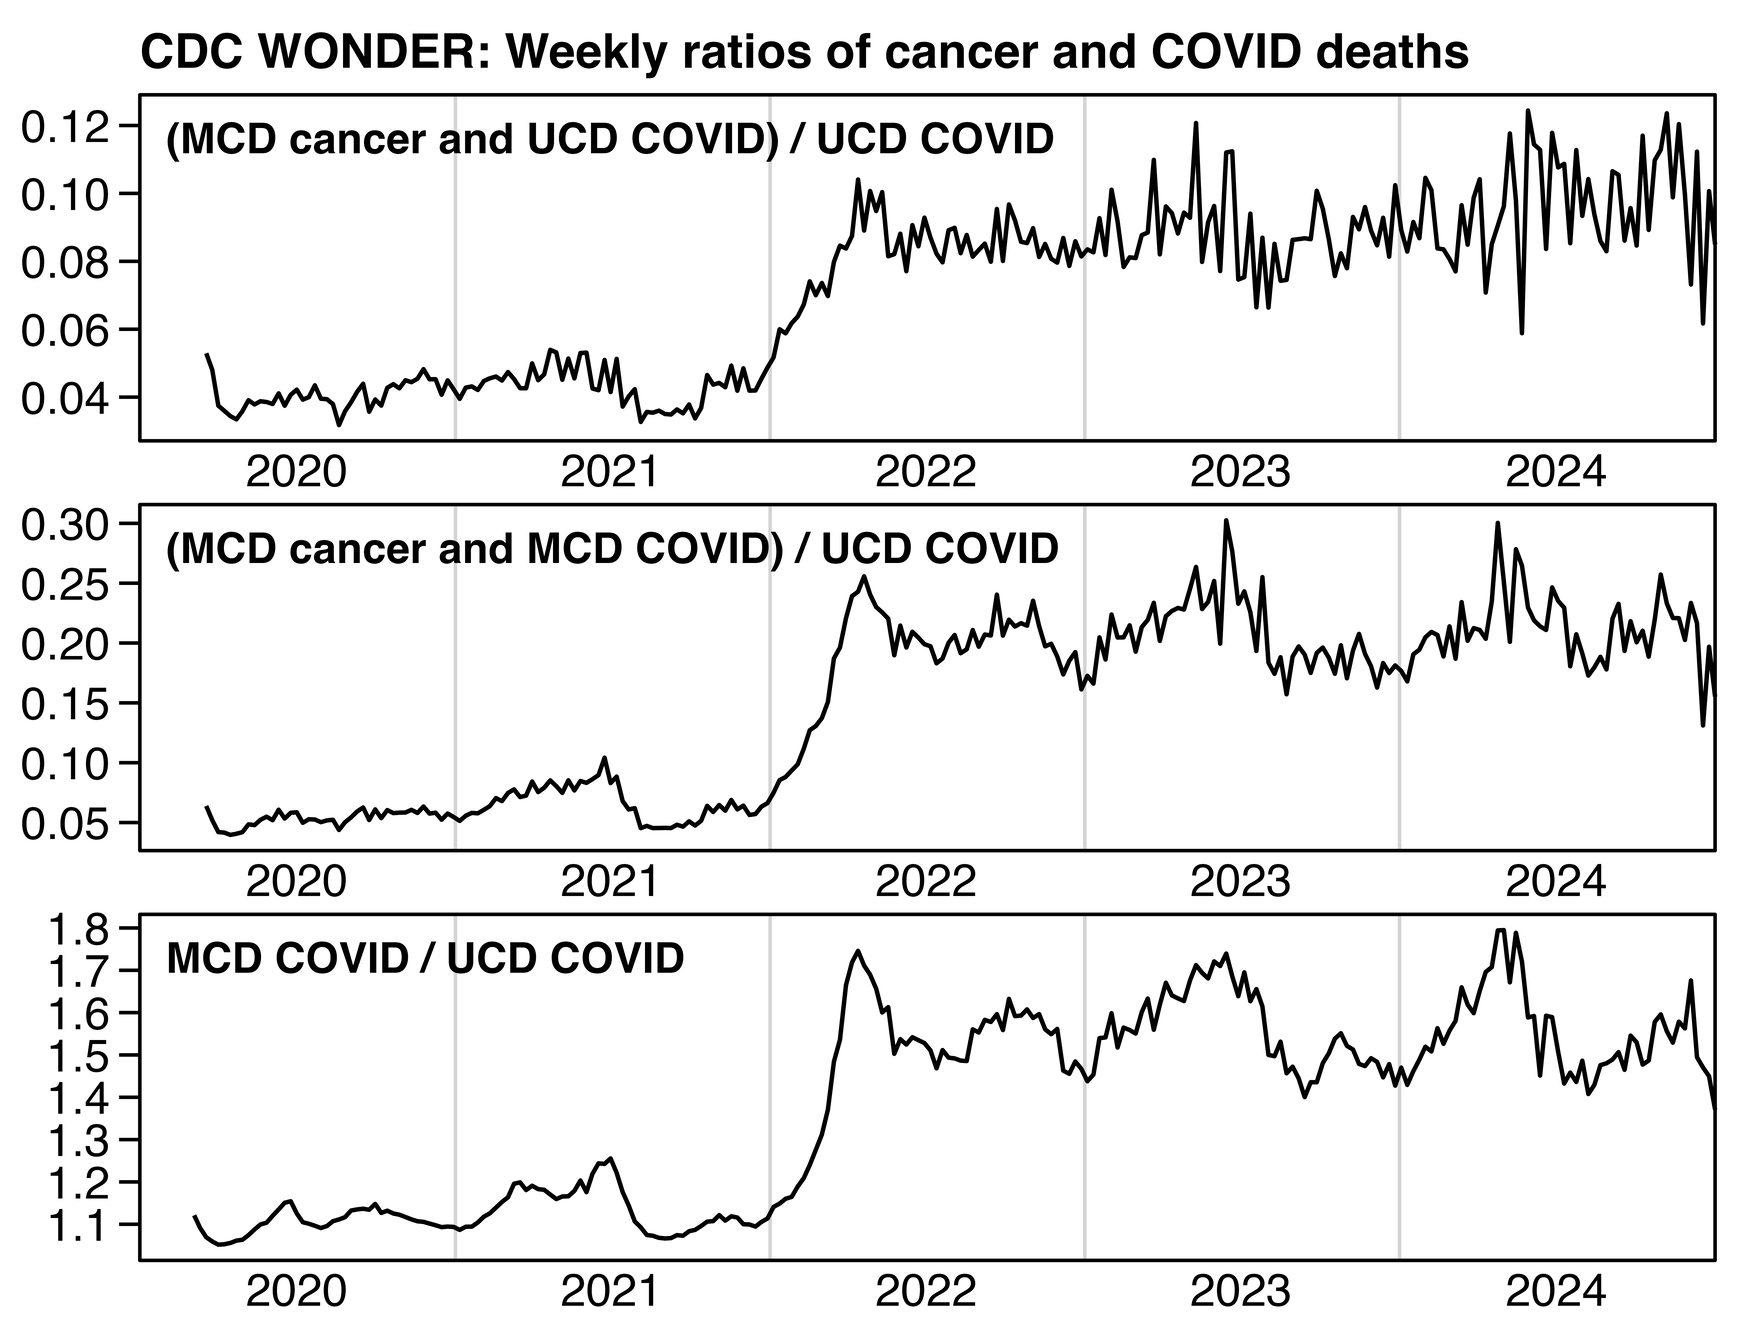
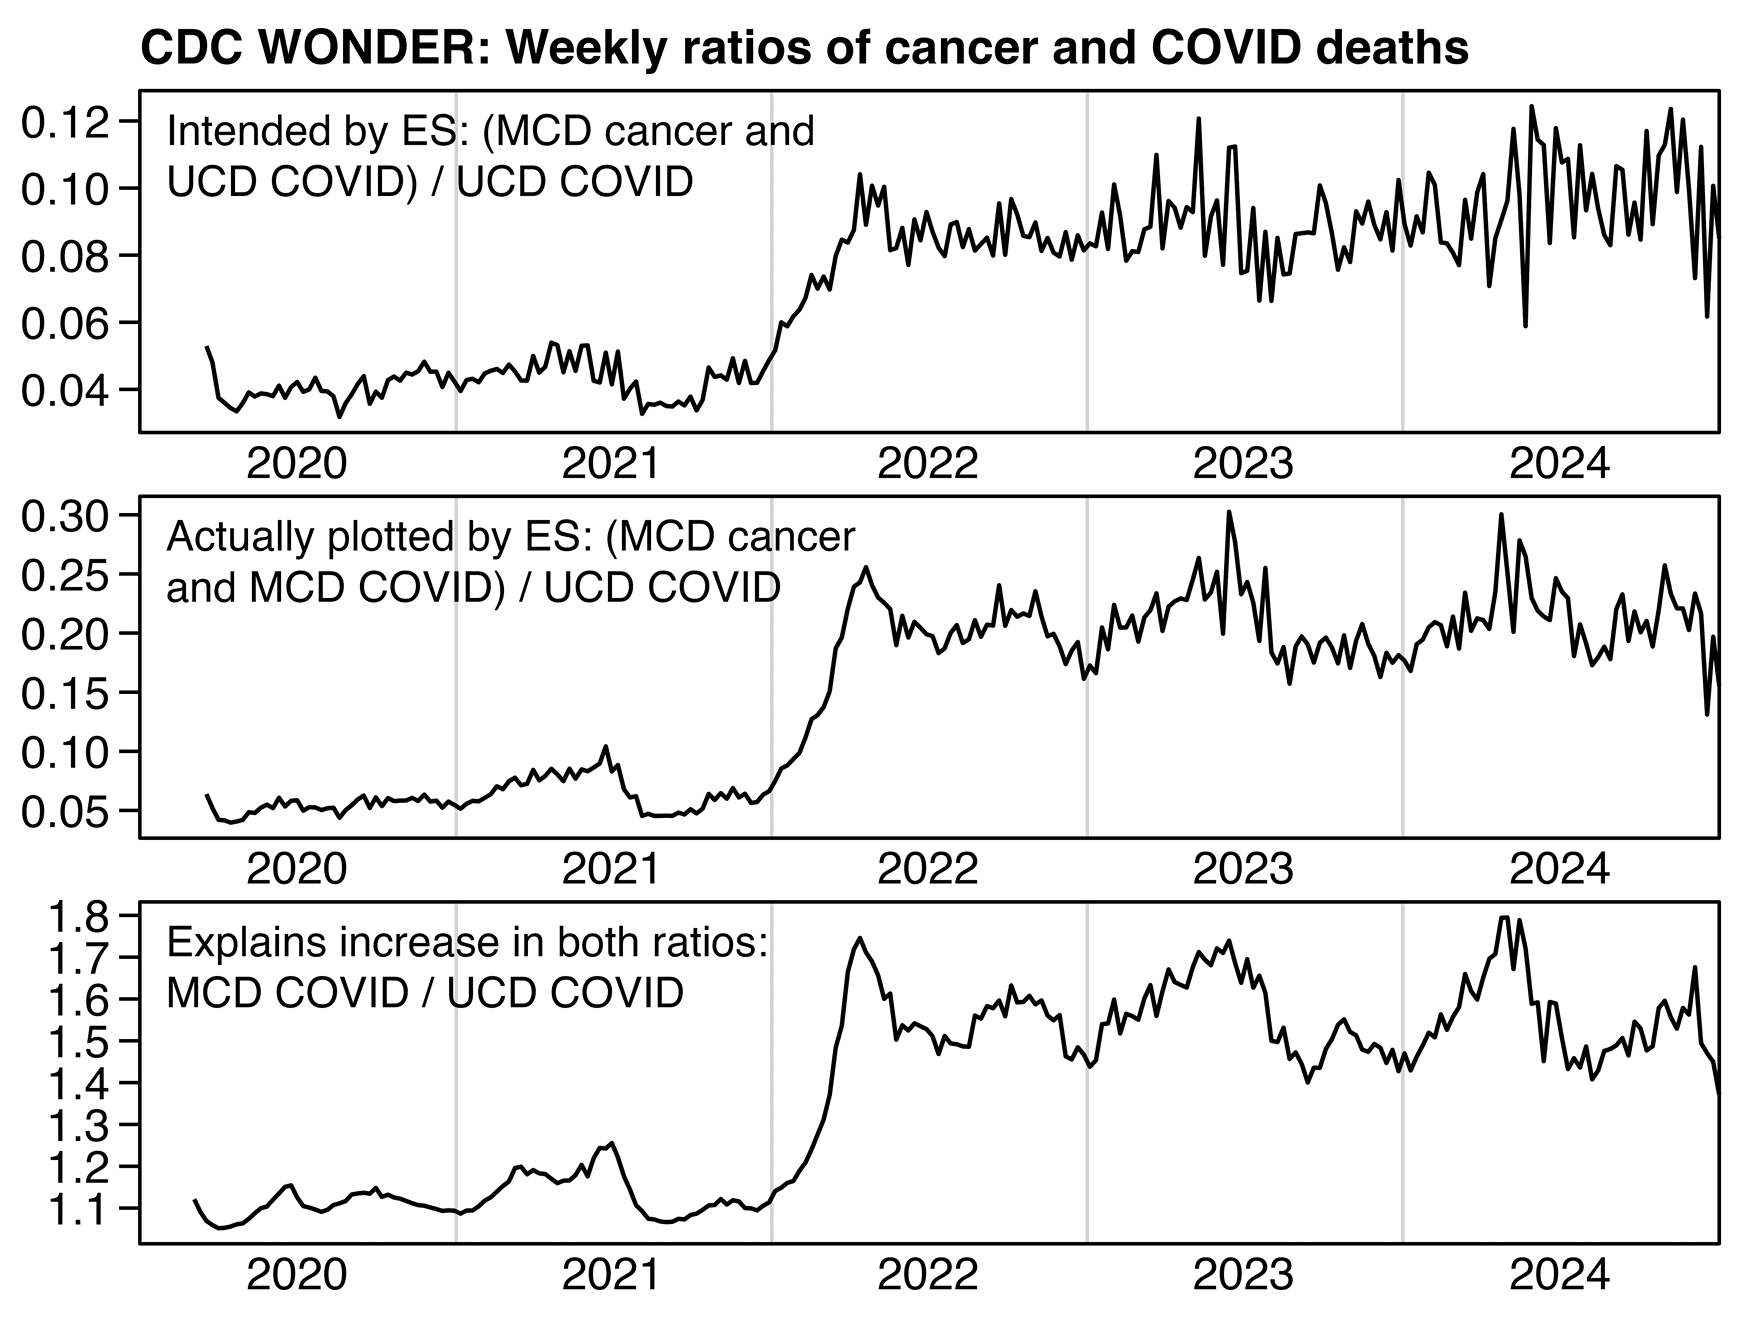
a

diff --git a/ethical.html b/ethical.html
@@ -2333,7 +2333,7 @@ ggsave(&quot;1.png&quot;,width=5.5,height=2.2,dpi=400)</pre>
 <p>I was able to reproduce his chart, but as it happens, he made a mistake when calculating the percentage. Instead of dividing by MCD Cancer and Covid *UCD* (as it says in his chart) he divided by MCD Cancer and Covid *MCD*</p>
 <p><img src=i/ethical-yukata-2.jpg class=width8></p>
 </blockquote>
-<p>I don't even remember seeing the plot by ES above, so maybe he realized himself the plot was wrong so he stopped posting it. But he still kept doing the excess MCD adjustment regardless, even though he appears to have originally justified it based on the error he made in his plot.</p>
+<p>I don't even remember seeing the plot by ES above, so maybe he realized himself the plot was wrong so he stopped posting it. But he still kept doing the excess MCD adjustment regardless, even though he appears to have originally justified it based on an erroneoues plot.</p>
 <p>So basically the MCD to UCD ratio for COVID deaths increased after Omicron, which explains why there was an increase in 2022 in the ratio of <span class="quote">"(MCD cancer and MCD COVID) / UCD COVID"</span>:</p>
 <pre>v=fread(&quot;curl -Ls sars2.net/f/vital.csv.xz|xz -dc&quot;)
 o=v[cause==&quot;U071&quot;,.(ucd=sum(ucd),mcd=sum(mcd)),.(year,quarter=(month+2)%/%3)]
@@ -2355,7 +2355,7 @@ print(o[,mcdtoucdratio:=round(mcd/ucd,2)][],r=F)
 # 2023       2   6832  11472          1.68
 # 2023       3   8394  12615          1.50
 # 2023       4  14058  21138          1.50</pre>
-<p>However there was in fact also a big increase in the ratio of <span class="quote">"(MCD cancer and UCD COVID) / UCD COVID"</span> in 2022. But I think it was because of Omicron, because the shape of the curve follows the curve of the MCD to UCD COVID ratio fairly closely:</p>
+<p>However there was in fact also a big increase in the ratio of <span class="quote">"(MCD cancer and UCD COVID) / UCD COVID"</span> in 2022. But I think the increase in the ratio was due to Omicron, because the shape of the curve for the ratio closely follows the curve of the MCD to UCD COVID ratio:</p>
 <div class="width7">
 <img src="i/ethical-yukata-3.png">
 </div>
@@ -2378,7 +2378,7 @@ xbreak=seq(xstart,xend,&quot;6 month&quot;);xlab=ifelse(month(xbreak)==7,year(xb
 ggplot(p,aes(x,y))+
 facet_wrap(~z,dir=&quot;v&quot;,scales=&quot;free&quot;)+
 geom_vline(xintercept=seq(xstart,xend,&quot;year&quot;),color=&quot;gray83&quot;,linewidth=.4)+
-geom_text(data=p[,max(y),z],aes(label=z,y=V1),x=xstart+30,hjust=0,vjust=1.4,size=3.6,fontface=2)+
+geom_text(data=p[,max(y),z],aes(label=z,y=V1),x=xstart+30,hjust=0,vjust=1.4,size=3.6)+
 geom_line()+
 labs(x=NULL,y=NULL,title=&quot;CDC WONDER: Weekly ratios of cancer and COVID deaths&quot;)+
 scale_x_continuous(limits=c(xstart,xend),breaks=xbreak,labels=xlab,expand=expansion(0,0))+
@@ -2389,30 +2389,19 @@ theme(axis.text=element_text(size=11,color=&quot;black&quot;),
   axis.ticks=element_line(linewidth=.4,color=&quot;black&quot;),
   axis.ticks.length.x=unit(0,&quot;pt&quot;),
   axis.ticks.length.y=unit(5,&quot;pt&quot;),
-  legend.background=element_blank(),
-  legend.box.background=element_blank(),
-  legend.box.spacing=unit(0,&quot;pt&quot;),
-  legend.direction=&quot;horizontal&quot;,
-  legend.justification=&quot;left&quot;,
-  legend.key=element_blank(),
-  legend.key.height=unit(11,&quot;pt&quot;),
-  legend.key.width=unit(26,&quot;pt&quot;),
-  legend.margin=margin(,,6,-2),
-  legend.position=&quot;top&quot;,
-  legend.spacing.x=unit(3,&quot;pt&quot;),
-  legend.spacing.y=unit(0,&quot;pt&quot;),
-  legend.text=element_text(size=11,vjust=.5),
-  legend.title=element_blank(),
   panel.background=element_blank(),
   panel.border=element_rect(fill=NA,linewidth=.4),
   panel.spacing=unit(2,&quot;pt&quot;),
-  plot.margin=margin(6,6,1,5),
+  plot.margin=margin(5,5,5,5),
   plot.title=element_text(size=11.5,face=2,margin=margin(2,,4)),
   strip.background=element_blank(),
   strip.text=element_blank())
 ggsave(&quot;1.png&quot;,width=5.8,height=4.4,dpi=300*4)
-system(&quot;magick 1.png -resize 25% -colorspace gray 1.png&quot;)
-</pre>
+system(&quot;magick 1.png -resize 25% -colorspace gray -colors 64 1.png&quot;)</pre>
+</div>
+<p>The Twitter user yukatapangolin also posted the plot below and wrote <span class="quote">"You could probably use a similar argument to the one ES uses to prove that the vaccine gives you AIDS"</span>: [<a href="https://x.com/yukatapangolin/status/1891955439996141658">https://x.com/yukatapangolin/status/1891955439996141658</a>]</p>
+<div class="width8">
+<img src="i/ethical-yukata-4.png">
 </div>
 <h2>
 <a href=#Files_for_US_population_estimates_by_single_year_of_age_up_to_ages_100 id=Files_for_US_population_estimates_by_single_year_of_age_up_to_ages_100>Files for US population estimates by single year of age up to ages 100+</a>
@@ -2424,7 +2413,7 @@ system(&quot;magick 1.png -resize 25% -colorspace gray 1.png&quot;)
 <li>CDC WONDER uses population estimates based on the 2010 census for 2010 to 2020 but population estimates based on the 2020 census for 2021 and later years, so some age groups have a big jump in the population size between 2020 and 2021. The same problem does not exist between the switch from the estimates based on the 2000 census to the estimates based on the 2010 census, because CDC WONDER uses 2000-2010 intercensal estimates for 2000-2009 which were modified to eliminate the jump in population size between 2010 and 2011, but the 2010-2020 intercensal estimates are not scheduled to be published until 2025.</li>
 <li>CDC WONDER uses vintage 2021 population estimates for 2021, vintage 2022 estimates for 2022, and so on, even though in later vintages the earlier estimates have often been revised considerably, and the Census Bureau recommends people to generally use the latest-vintage estimates.</li>
 </ul>
-<p>The following code downloads the 2020-2023 resident population estimates that are based on the 2020 census and the 2010-2020 resident population estimates that are based on the 2010 census: <a href="https://www2.census.gov/programs-surveys/popest/datasets/2020-2023/national/asrh/">https://www2.census.gov/programs-surveys/popest/datasets/2020-2023/national/asrh/</a>, <a href="https://www2.census.gov/programs-surveys/popest/datasets/2010-2020/national/asrh/">https://www2.census.gov/programs-surveys/popest/datasets/2010-2020/national/asrh/</a>. I also included mid-year population projections for 2024-2060 so that I multiplied the population projections for each age by the ratio between the mid-2023 resident population estimate and the population projection for 2023: <a href="https://www2.census.gov/programs-surveys/popproj/datasets/2023/2023-popproj/">https://www2.census.gov/programs-surveys/popproj/datasets/2023/2023-popproj/</a>.</p>
+<p>The following code downloads the 2020-2023 resident population estimates that are based on the 2020 census and the 2010-2020 resident population estimates that are based on the 2010 census: <a href="https://www2.census.gov/programs-surveys/popest/datasets/2020-2023/national/asrh/">https://www2.census.gov/programs-surveys/popest/datasets/2020-2023/national/asrh/</a>, <a href="https://www2.census.gov/programs-surveys/popest/datasets/2010-2020/national/asrh/">https://www2.census.gov/programs-surveys/popest/datasets/2010-2020/national/asrh/</a>. I also included mid-year population projections for 2024-2030 so that I multiplied the population projections for each age by the ratio between the mid-2023 resident population estimate and the population projection for 2023: <a href="https://www2.census.gov/programs-surveys/popproj/datasets/2023/2023-popproj/">https://www2.census.gov/programs-surveys/popproj/datasets/2023/2023-popproj/</a>.</p>
 <p>In order to get rid of a sudden jump in the population estimates at the point when the new and old estimates are merged, the old estimates are multiplied by a linear slope so that they are the same in 2020 as the new estimates. For example for the age 80, the vintage 2023 population estimate for 2020 is 1,450,396 and the vintage 2020 estimate for 2020 is 1,526,957, so their ratio is about 0.9499, so I'm multiplying the old estimate by about <code>.9+.1*0.9499</code> for 2011, by about <code>.8+.2*0.9499</code> for 2012, and so on. (However a slight problem with my approach is that the mid-year population estimates for 2020 had already been reduced by COVID deaths, so COVID deaths in the first half of 2020 are reflected in the slope by which the population estimates for 2011 to 2019 are multiplied.)</p>
 <pre>old=fread(&quot;https://www2.census.gov/programs-surveys/popest/datasets/2010-2020/national/asrh/nc-est2020-agesex-res.csv&quot;)
 new=fread(&quot;https://www2.census.gov/programs-surveys/popest/datasets/2020-2023/national/asrh/nc-est2023-agesex-res.csv&quot;)
@@ -2438,14 +2427,14 @@ o=merge(merge(old[year==2020,.(age,old=pop)],new[year==2020,.(age,new=pop)])[,.(
 # multiply old population estimates by a linear slope so they match new estimates in 2020
 o=rbind(o[year!=2020,.(year,age,pop=round(pop*(1-(((year-2010)/10))*(1-ratio))))],new)
 
-# include population projections for 2024-2060 adjusted to match 2023 resident population estimatess in 2023
+# include population projections for 2024-2030 adjusted to match 2023 resident population estimatess in 2023
 proj=fread(&quot;https://www2.census.gov/programs-surveys/popproj/datasets/2023/2023-popproj/np2023_d1_mid.csv&quot;)
 proj=proj[SEX==0&amp;ORIGIN==0&amp;RACE==0&amp;YEAR&gt;=2023,.(year=YEAR,age=rep(0:100,each=.N),pop=unlist(.SD[,-(1:5)]))]
 mult=o[year==2023,pop]/proj[year==2023]$pop
 o=rbind(o,proj[,pop:=pop*mult][year&gt;2023])
 
 # add a column for yearly deaths from CDC WONDER for convenience (downloaded in February 2025)
-o=merge(o,fread(&quot;https://sars2.net/f/usyearlydead.csv&quot;),all=T)
+o=merge(o,na.omit(fread(&quot;http://sars2.net/f/usyearlydead.csv&quot;)),all=T)
 
 fwrite(o[order(year,age)],&quot;uspopdead.csv&quot;,na=&quot;&quot;)</pre>
 <p>I uploaded the output here: <a href=f/uspopdead.csv>f/uspopdead.csv</a>.</p>
